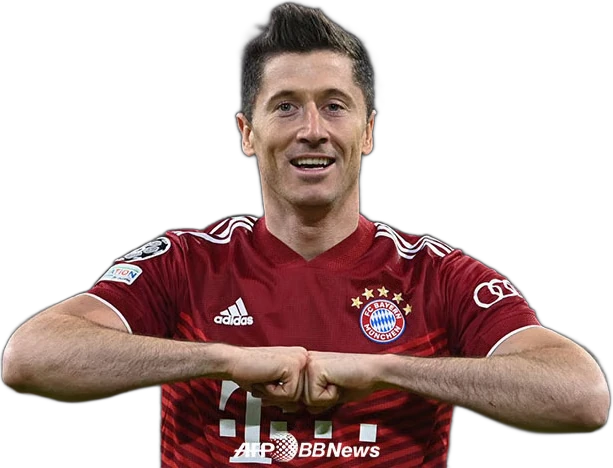
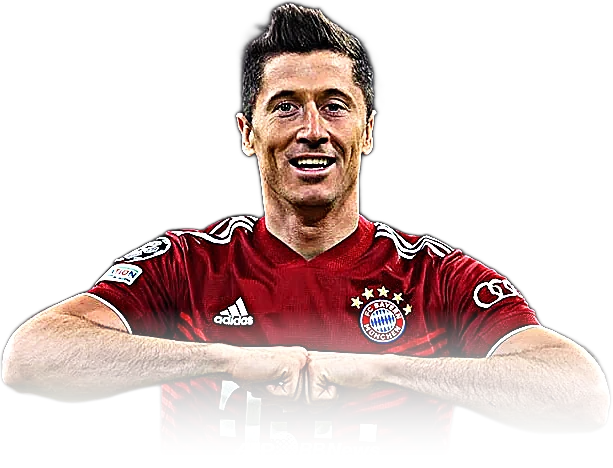
사용자 미페 게임 톤 보정판(선명·대비·채도·아래 페이드) 교체 + 처리 규칙·grade.py
Claude-Session: https://claude.ai/code/session_01Jep69tcqmNVqesWrwWp8cP

diff --git a/docs/design/incoming/facepack-user/tools/grade.py b/docs/design/incoming/facepack-user/tools/grade.py
@@ -1,0 +1,24 @@
+import sys
+from PIL import Image, ImageEnhance, ImageFilter, ImageChops
+import numpy as np
+def grade(src,dst,fade=0.22):
+    im=Image.open(src).convert('RGBA'); a=im.getchannel('A'); rgb=im.convert('RGB')
+    # 선명: 디테일(clarity) + 언샵
+    rgb=rgb.filter(ImageFilter.UnsharpMask(radius=6,percent=60,threshold=2))
+    rgb=rgb.filter(ImageFilter.UnsharpMask(radius=1.2,percent=120,threshold=1))
+    # 톤: S커브 대비, 채도, 살짝 따뜻한 하이라이트·차가운 그림자
+    x=np.asarray(rgb).astype(np.float32)/255
+    x=np.clip(x,0,1); s=x*x*(3-2*x); x=0.55*s+0.45*x       # S커브
+    lum=(0.299*x[...,0]+0.587*x[...,1]+0.114*x[...,2])[...,None]
+    x=lum+(x-lum)*1.22                                      # 채도
+    x[...,0]+=0.025*lum[...,0]; x[...,2]+=0.03*(1-lum[...,0])-0.015  # 하이라이트 따뜻·그림자 푸른
+    x=np.clip(x,0,1)
+    rgb=Image.fromarray((x*255).astype(np.uint8))
+    rgb=ImageEnhance.Brightness(rgb).enhance(1.03)
+    # 아래쪽 페이드(피파 미페처럼)
+    A=np.asarray(a).astype(np.float32)
+    h=A.shape[0]; rows=np.linspace(0,1,h)[:,None]
+    f=np.clip((1-rows)/fade,0,1)**2.2; A=A*f
+    out=rgb.convert('RGBA'); out.putalpha(Image.fromarray(A.astype(np.uint8)))
+    out.save(dst)
+grade(sys.argv[1],sys.argv[2],float(sys.argv[3]) if len(sys.argv)>3 else 0.22)

diff --git a/docs/ui-requests/facepack-user-apply.md b/docs/ui-requests/facepack-user-apply.md
@@ -2,11 +2,17 @@
 
 사용자가 사진·로고를 주고 이름을 알려 준다 → UI_5가 배경을 지워(rembg isnet-general-use) 정리해 이 폴더에 올린다 → 코드 세션이 레포 facepack에 넣어 배포한다. **앞으로 같은 방식으로 계속 온다**(사용자: "사진에 이름만 달아서 보내면"). 이 표에 줄을 더해 간다.
 
-## 이번 묶음 (1차, 사용자 확인 "지금 딱 좋아")
+## 처리 규칙 (사용자 확정 2026-10-22 00:45 KST "앞으로 저렇게")
+1. 배경 지우기: rembg `isnet-general-use` → 투명 영역 둘레로 자르기, 긴 쪽 900px 이하.
+2. **게임 톤 보정(피파 미페 느낌)**: `tools/grade.py <입력> <출력> [페이드]` — 언샵 2단(디테일 r6 60% + 선명 r1.2 120%), S커브 대비, 채도 ×1.22, 하이라이트 따뜻·그림자 푸르게, 밝기 ×1.03, **아래 페이드**(기본 아래 22%, 제곱 2.2 곡선 — 워터마크가 있으면 34%까지).
+3. 사용자에게 어두운 배경 미리보기 → 확인 뒤 이 폴더·표에 넣고 마스터에 알림.
+4. 이름은 사용자가 준다(얼굴로 판별하지 않음). 로고는 받은 그림 그대로(투명 PNG, 긴 쪽 320 이하).
+
+## 이번 묶음 (1차, 사용자 확인 "지금 딱 좋아" → 게임 톤 보정판으로 교체 00:45)
 | 파일 (`docs/design/incoming/facepack-user/`) | 대상 | 게임 id | 비고 |
 |---|---|---|---|
-| `players/marco-reus.webp` (846×748, 투명) | 마르코 로이스 | `marco-reus` (data/players/bundesliga.ts) | 지금 facepack 없음 → 새로 |
-| `players/lewandowski.webp` (613×468, 투명) | 로베르트 레반도프스키 | `lewandowski` (data/players/stars.ts) | 지금 위키 사진(players/lewandowski.png) **바꿈**. 아래쪽에 원본 워터마크 "AFP BBNews"가 남아 있음 — 얼굴 칸(정사각)은 위쪽만 써서 안 보임, 머리말 전신은 아래 사선 면이 덮는지 확인 |
+| `players/marco-reus.webp` (846×748, 투명, 보정·아래 페이드 22%) | 마르코 로이스 | `marco-reus` (data/players/bundesliga.ts) | 지금 facepack 없음 → 새로 |
+| `players/lewandowski.webp` (613×468, 투명, 보정·아래 페이드 34%) | 로베르트 레반도프스키 | `lewandowski` (data/players/stars.ts) | 지금 위키 사진(players/lewandowski.png) **바꿈**. 원본 워터마크는 아래 페이드로 가려짐 |
 | `clubs/bvb.png` (250×251, 투명) | 보루시아 도르트문트 | `bundesliga:bvb` | 사용자: 팀 로고도 바꿈 |
 | `clubs/bay.png` (320×320, 투명) | 바이에른 뮌헨 | `bundesliga:bay` (`x:bay` 리그 밖 표도 같은 로고) | 사용자: 팀 로고도 바꿈 |
 
